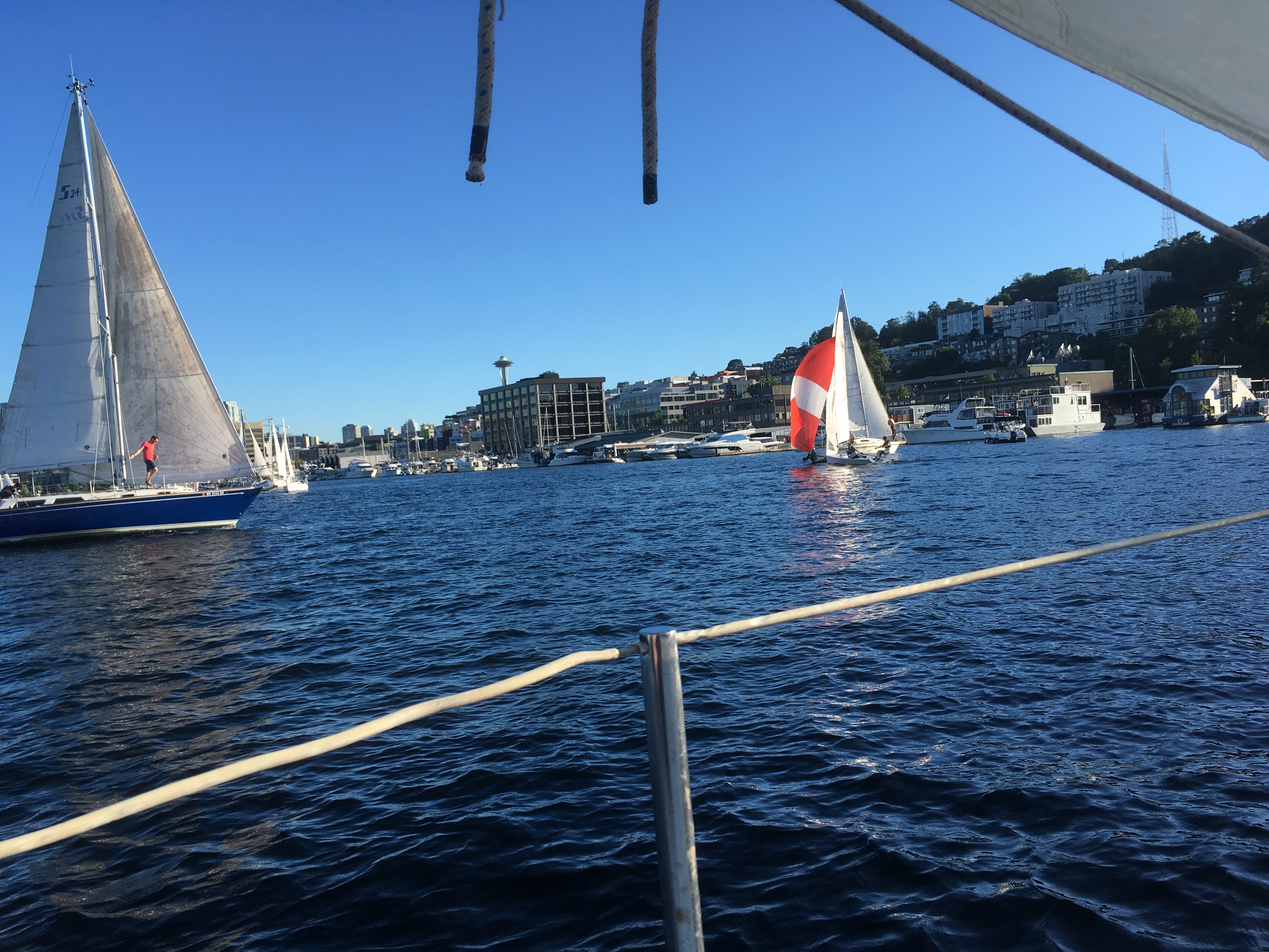
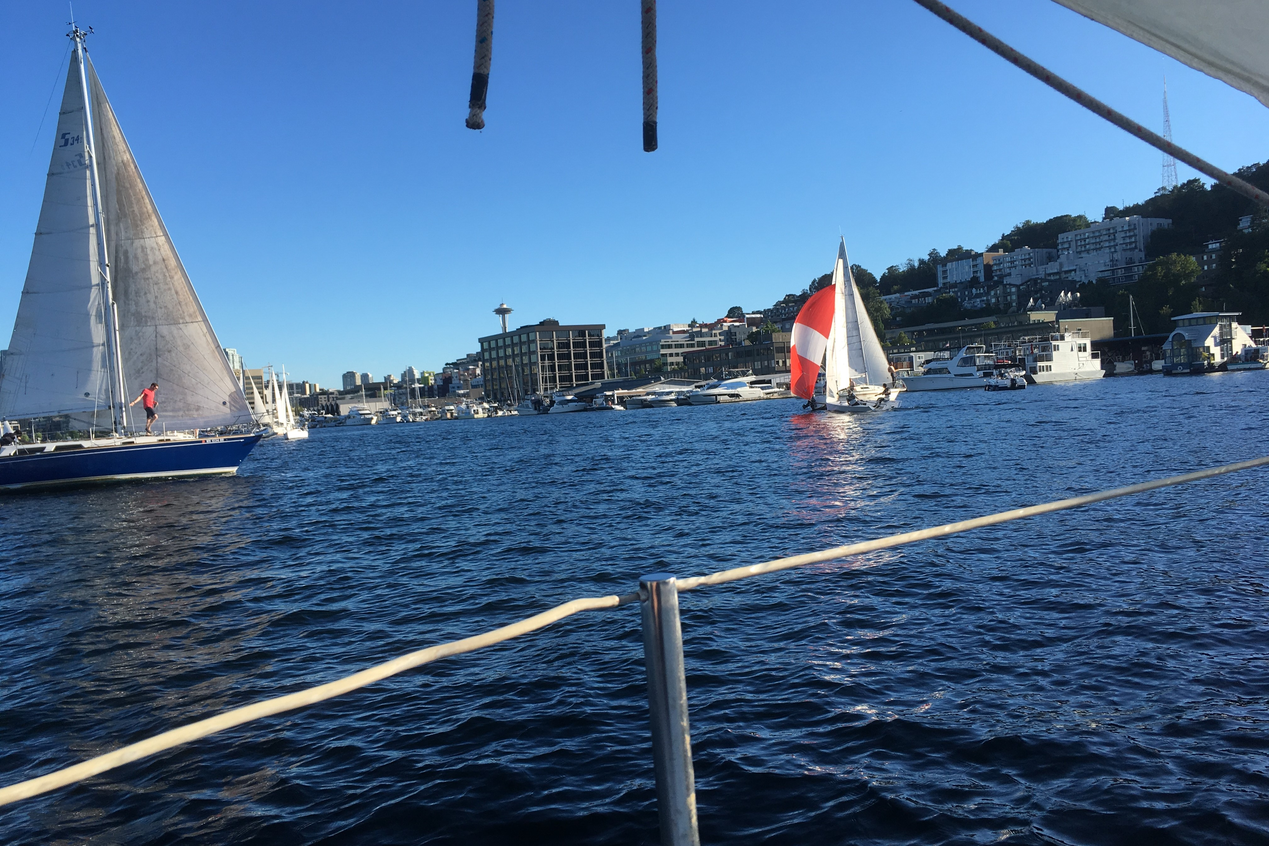
afa

diff --git a/public/home.js b/public/home.js
@@ -1,9 +1,9 @@
 
 var i = 0;
 var images = [];
-var time = 2000;
+var time = 3500;
 images[0] = "images/ski1.jpeg";
-images[1] = "inages/sail.jpeg";
+images[1] = "images/sail.jpeg";
 images[2] = "images/ski2.png";
 
 function updateCarousel(){
